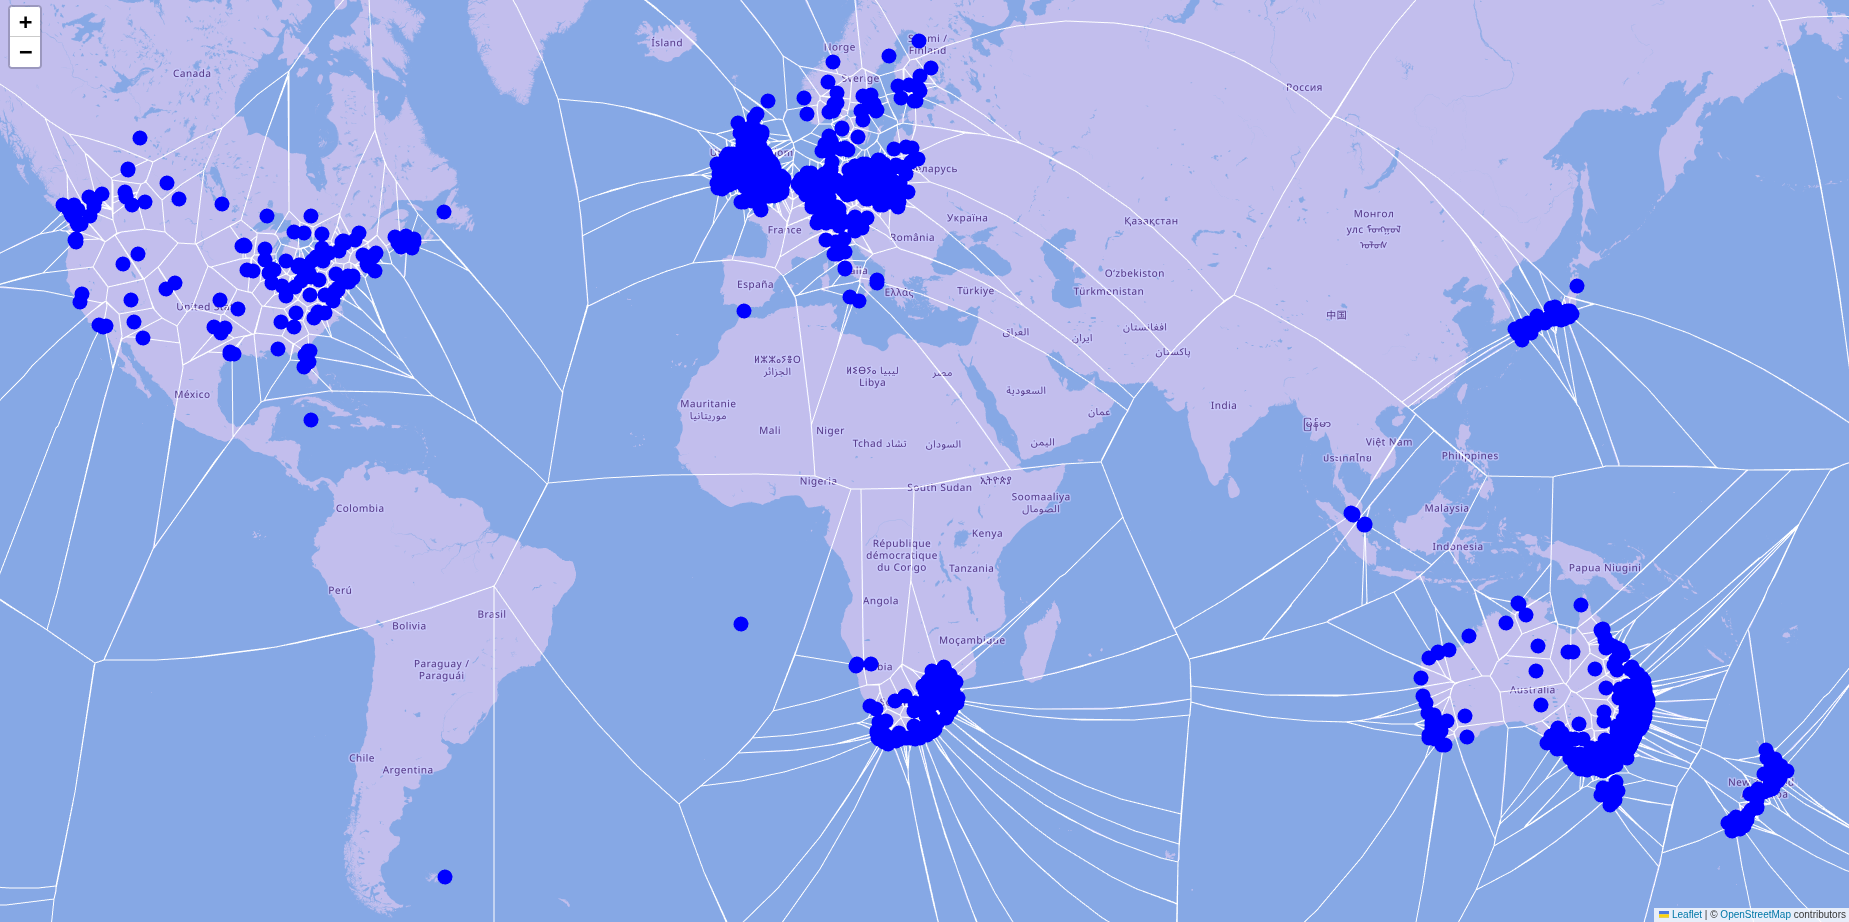
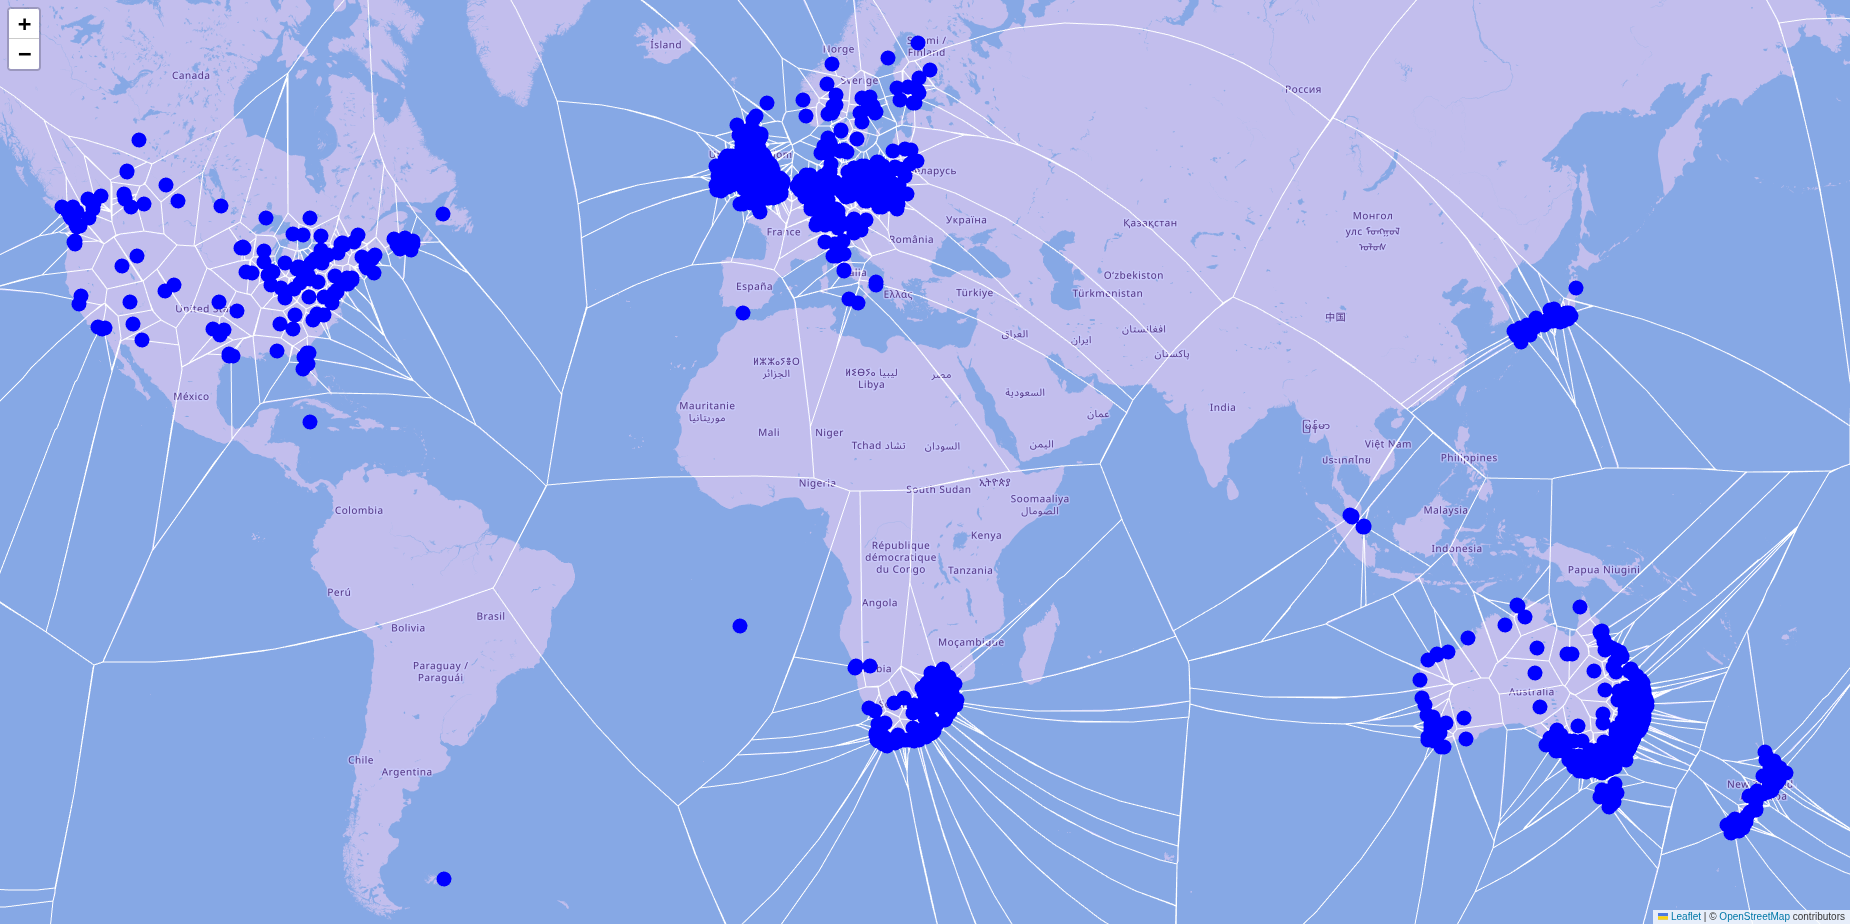
Update demo

diff --git a/README.md b/README.md
@@ -4,15 +4,15 @@ Objective: to scrape the Parkrun API (or website since the API has been deprecat
 
 ## Demo
 
-This mainly uses Darren WOOD (parkrunner number 490) because he was the first parkrunner to run 1000 parkruns. These outputs were created 2026-09-26.
+This mainly uses Darren WOOD (parkrunner number 490) because he was the first parkrunner to run 1000 parkruns. These outputs were created 2026-09-28.
 
 ### Runner Stats
 
 ```text
-$ prcli runner_stats 490
+$ prcli runner_stats darren_wood 
 Runner stats from all time
 +----------------------------+--------------------------------------------------------------------------------------+
-|         Parkrunner         |                              Darren WOOD (490) VM40-44                               |
+|         Parkrunner         |                              Darren WOOD (490) VM40-45                               |
 +============================+======================================================================================+
 | Num Runs                   | 1017                                                                                 |
 +----------------------------+--------------------------------------------------------------------------------------+
@@ -60,9 +60,13 @@ Runner stats from all time
 +----------------------------+--------------------------------------------------------------------------------------+
 | Floating Tourist Streak 2  | 17 (2020-02-22 - 2021-10-16)                                                         |
 +----------------------------+--------------------------------------------------------------------------------------+
-| re-index                   | 33                                                                                   |
+| Re-Index                   | 33                                                                                   |
 +----------------------------+--------------------------------------------------------------------------------------+
-| p-index                    | 10                                                                                   |
+| P-Index                    | 10                                                                                   |
++----------------------------+--------------------------------------------------------------------------------------+
+| C-Index                    | 2                                                                                    |
++----------------------------+--------------------------------------------------------------------------------------+
+| PC-Index                   | 1                                                                                    |
 +----------------------------+--------------------------------------------------------------------------------------+
 ```
 
